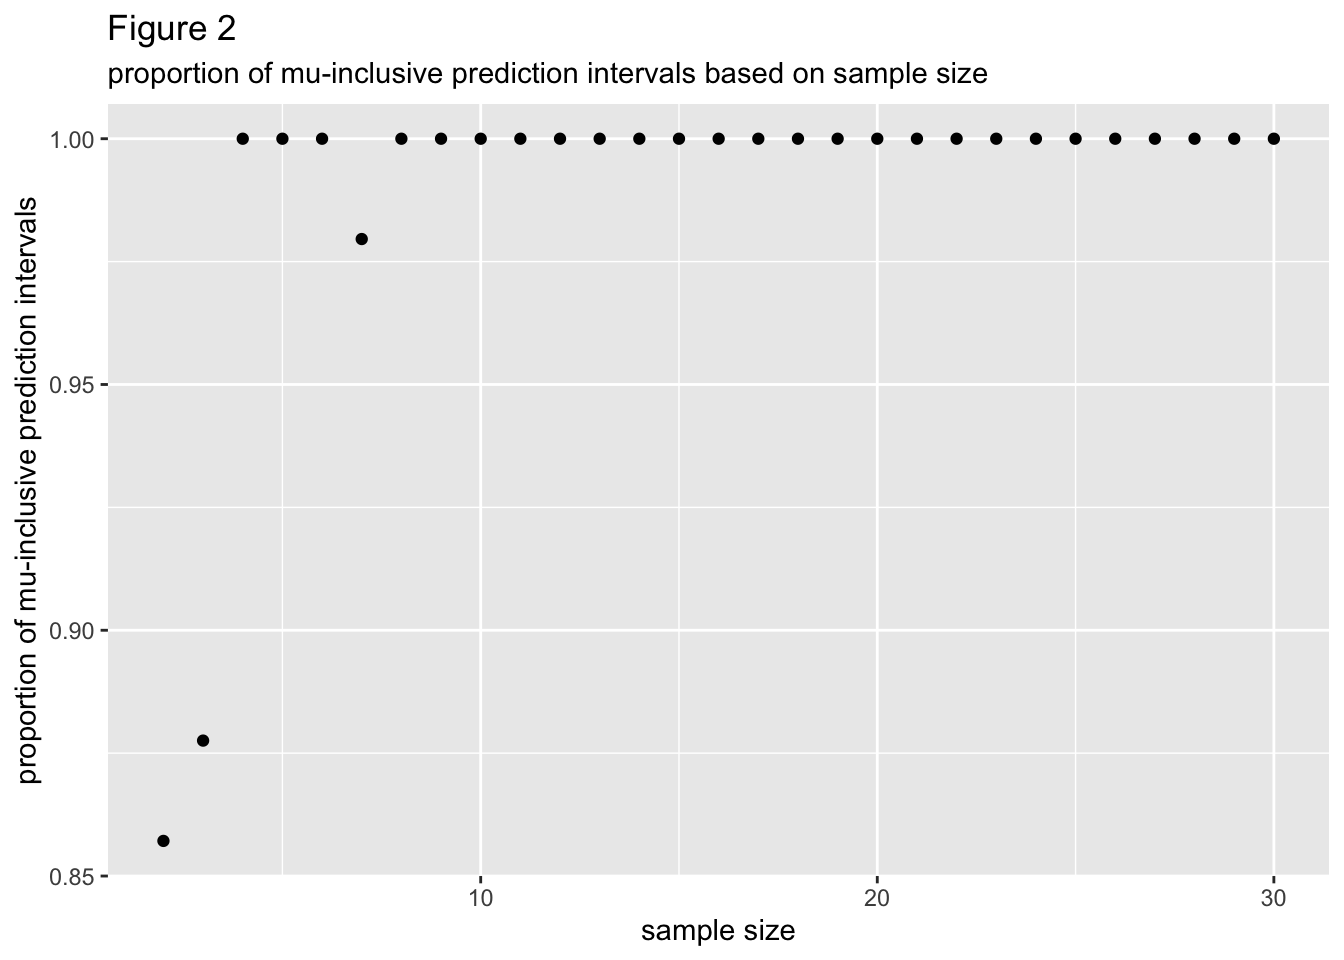
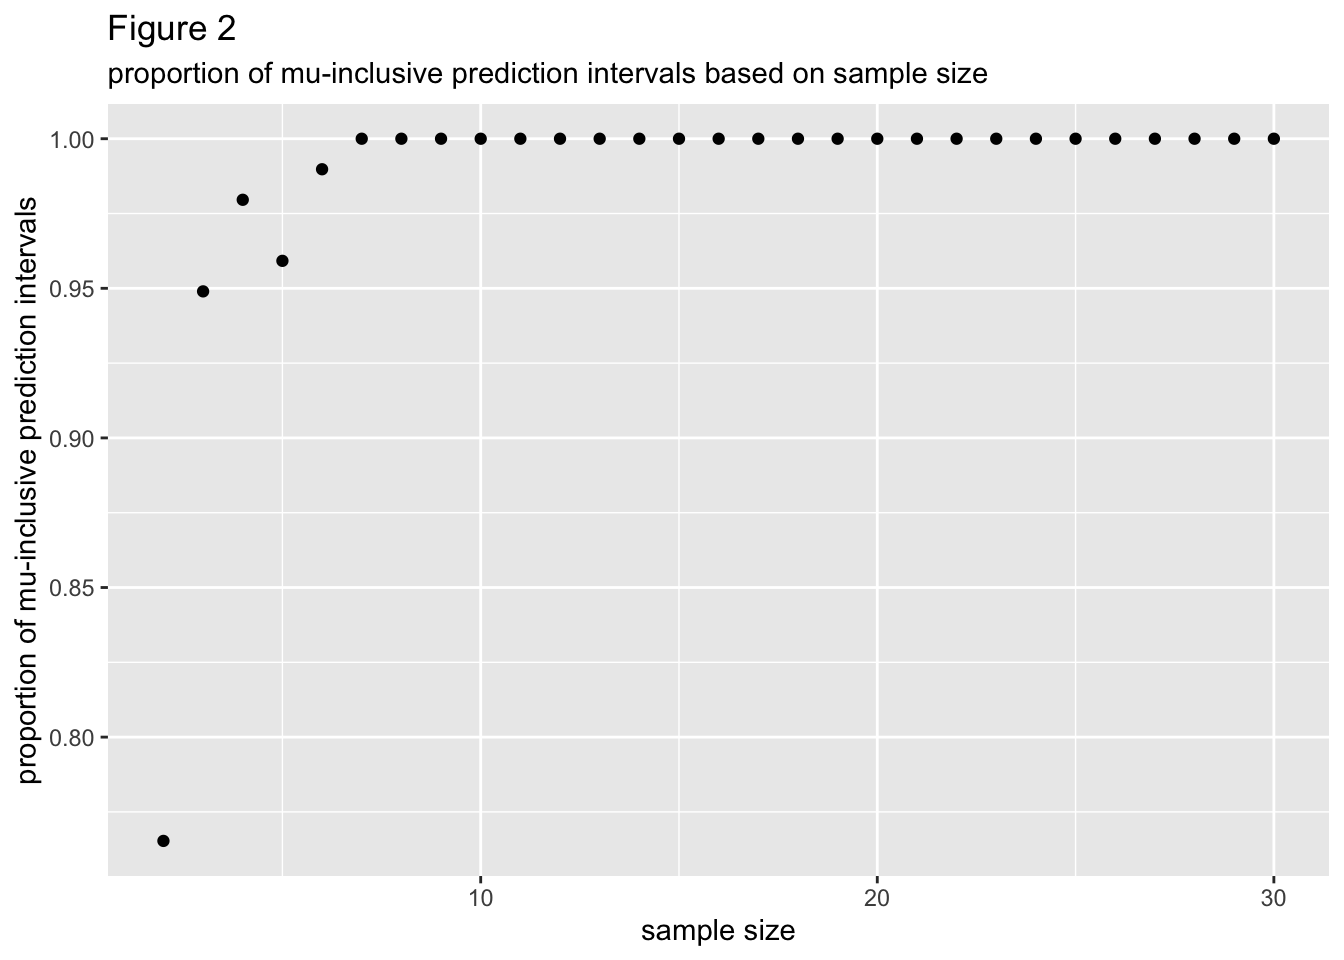
update

diff --git a/docs/Beta_Simulation.html b/docs/Beta_Simulation.html
@@ -255,16 +255,16 @@ pre > code.sourceCode > span > a:first-child::before { text-decoration: underlin
 <span id="cb4-3"><a href="#cb4-3" aria-hidden="true" tabindex="-1"></a>  <span class="fu">list_rbind</span>()</span></code><button title="Copy to Clipboard" class="code-copy-button"><i class="bi"></i></button></pre></div>
 <div class="cell-output cell-output-stdout">
 <pre><code>     n PI_percentage     lower     upper     cover alpha beta mean_in_interval
-1   81          0.95 0.4236968 0.5937477 0.9270890    57   57             TRUE
-2  258          0.95 0.3973518 0.5905813 0.9269016    43   43             TRUE
-3  373          0.95 0.4375837 0.5637512 0.9357672   107  107             TRUE
-4  414          0.95 0.4362810 0.5635363 0.9510632   119  119             TRUE
-5  448          0.95 0.3531478 0.6485397 0.9484122    21   21             TRUE
-6  330          0.95 0.4215370 0.5748216 0.9204324    65   65             TRUE
-7  374          0.95 0.4356881 0.5608300 0.9646451   141  141             TRUE
-8  195          0.95 0.4392862 0.5600048 0.9548892   137  137             TRUE
-9  338          0.95 0.4451070 0.5547392 0.9499327   159  159             TRUE
-10 414          0.95 0.4428808 0.5554273 0.9434725   143  143             TRUE</code></pre>
+1   17          0.95 0.4623945 0.5826565 0.8005430    75   75             TRUE
+2  305          0.95 0.3895331 0.6125110 0.9584882    41   41             TRUE
+3  429          0.95 0.3796472 0.6148884 0.9640888    39   39             TRUE
+4  400          0.95 0.4041973 0.5874918 0.9501818    57   57             TRUE
+5  350          0.95 0.3680192 0.6450979 0.9423689    23   23             TRUE
+6  379          0.95 0.4202251 0.5793738 0.9357785    67   67             TRUE
+7  144          0.95 0.4386921 0.5632964 0.9417993   115  115             TRUE
+8  431          0.95 0.4427562 0.5586647 0.9437020   135  135             TRUE
+9  319          0.95 0.4447186 0.5546416 0.9475704   155  155             TRUE
+10 234          0.95 0.4515559 0.5476910 0.9401462   191  191             TRUE</code></pre>
 </div>
 </div>
 <p>This is a random sample of rows from the actual dataset, which has 48902 rows and 8 columns. Each row corresponds to a simulated random sample of size n from a beta distribution with parameters alpha and beta. For each random sample, a normal prediction interval was generated with bounds “lower” and “upper”. “PI_percentage” refers to the intended coverage probability and “cover” refers to the actual coverage probability of said prediction interval over the beta distribution the data was generated from. “mean_in_interval” is a binary variable that states if the prediction interval covered the mean of the distribution.</p>

diff --git a/docs/Netflix_Analysis.html b/docs/Netflix_Analysis.html
@@ -275,7 +275,7 @@ pre > code.sourceCode > span > a:first-child::before { text-decoration: underlin
 <span id="cb4-57"><a href="#cb4-57" aria-hidden="true" tabindex="-1"></a></span>
 <span id="cb4-58"><a href="#cb4-58" aria-hidden="true" tabindex="-1"></a>num_horror <span class="ot">&lt;-</span> horror_subgenre <span class="sc">%&gt;%</span></span>
 <span id="cb4-59"><a href="#cb4-59" aria-hidden="true" tabindex="-1"></a>  <span class="fu">filter</span>(listed_in <span class="sc">==</span> <span class="st">" "</span>) <span class="sc">%&gt;%</span></span>
-<span id="cb4-60"><a href="#cb4-60" aria-hidden="true" tabindex="-1"></a>  <span class="fu">mutate</span>(<span class="at">listed_in =</span> <span class="st">"horror"</span>) <span class="sc">%&gt;%</span></span>
+<span id="cb4-60"><a href="#cb4-60" aria-hidden="true" tabindex="-1"></a>  <span class="fu">mutate</span>(<span class="at">listed_in =</span> <span class="st">"Horror"</span>) <span class="sc">%&gt;%</span></span>
 <span id="cb4-61"><a href="#cb4-61" aria-hidden="true" tabindex="-1"></a>  <span class="fu">rename</span>(<span class="at">genre =</span> listed_in)</span>
 <span id="cb4-62"><a href="#cb4-62" aria-hidden="true" tabindex="-1"></a></span>
 <span id="cb4-63"><a href="#cb4-63" aria-hidden="true" tabindex="-1"></a>horror_df <span class="ot">&lt;-</span> <span class="fu">rbind</span>(num_thrillers, num_comedies, num_action_adventure, num_scifi_fantasy, num_cult, num_documentaries, num_romantic, num_horror ) <span class="sc">%&gt;%</span></span>
@@ -284,7 +284,7 @@ pre > code.sourceCode > span > a:first-child::before { text-decoration: underlin
 <span id="cb4-66"><a href="#cb4-66" aria-hidden="true" tabindex="-1"></a>horror_df</span></code><button title="Copy to Clipboard" class="code-copy-button"><i class="bi"></i></button></pre></div>
 <div class="cell-output cell-output-stdout">
 <pre><code>  num         genre
-1 125        horror
+1 125        Horror
 2 110     Thrillers
 3  38      Comedies
 4  19 SciFi&amp;Fantasy
